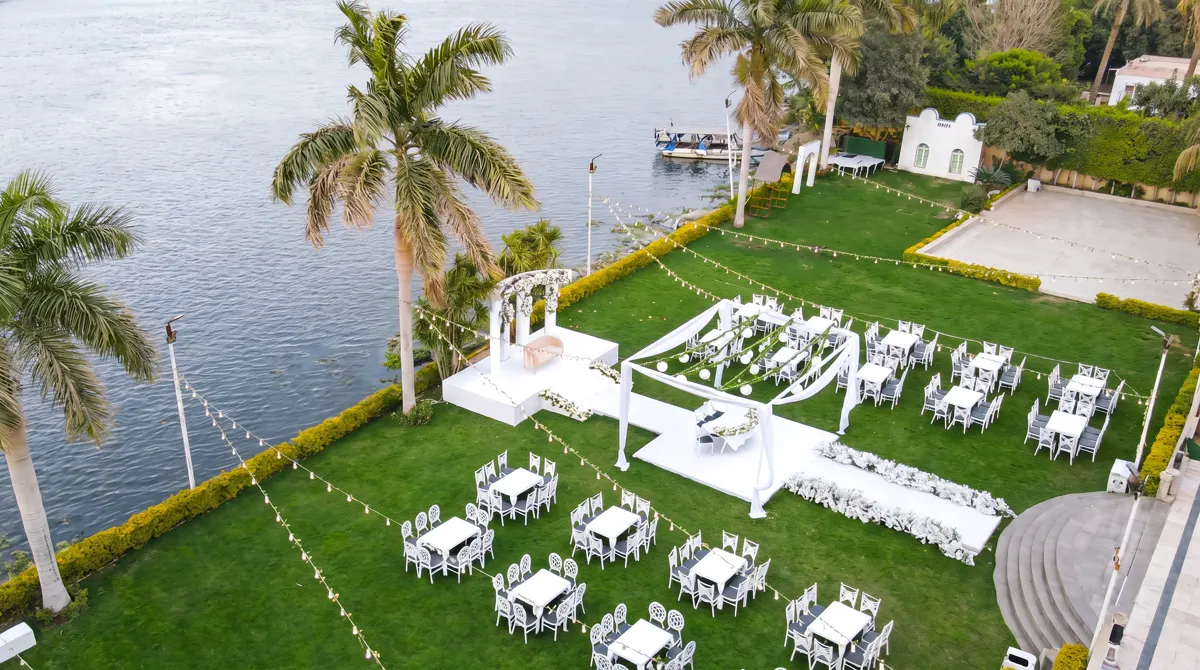
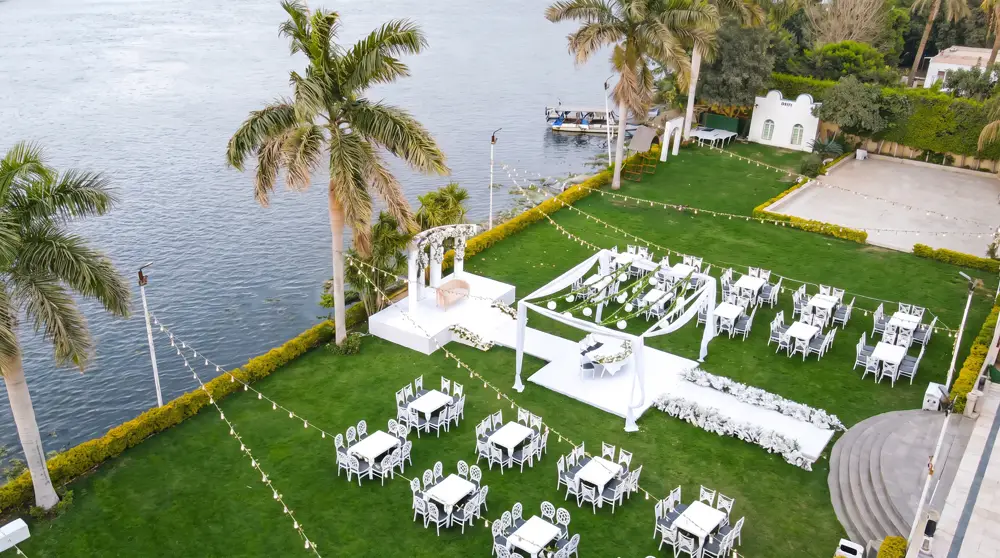
Mobile performance pass: small images, lighter effects, saner fades

diff --git a/index.html b/index.html
@@ -162,6 +162,8 @@ button{font:inherit;color:inherit}
 .outro .q,.outro .sig{position:relative}
 
 @media (max-width:860px){
+  body::after{display:none}
+  .p1 .ph,.plan,.map{box-shadow:0 20px 40px -24px rgba(47,61,44,.45)}
   .p1,.p3,.p5{grid-template-columns:1fr;align-content:center;gap:22px}
   .p1 .ph{height:34vh;border-radius:200px 200px 16px 16px;order:-1}
   .p1 h2{font-size:clamp(38px,10vw,56px)}
@@ -211,7 +213,7 @@ button{font:inherit;color:inherit}
           <h2 class="split">قلبان، ووعدٌ، وبيتٌ يُبنى على المودّة والرحمة.</h2>
           <p>في حديقة على النيل، بين النخل والورد الأبيض… بتبدأ حكاية أحمد ودينا.</p>
         </div>
-        <div class="ph"><img src="assets/venue.webp" alt="ممر الورد الأبيض والبرجولا في Villa Garden على النيل" class="par"></div>
+        <div class="ph"><img src="assets/venue.webp" srcset="assets/venue-sm.webp 800w, assets/venue.webp 1800w" sizes="(max-width:860px) 92vw, 45vw" decoding="async" alt="ممر الورد الأبيض والبرجولا في Villa Garden على النيل" class="par"></div>
         <div class="hint"><span>اسحب لتقلب الصفحات</span><span class="arr"></span></div>
         <svg class="vine" style="bottom:-10px;left:-20px;width:46vw;height:160px" viewBox="0 0 600 160" data-vine></svg>
       </article>
@@ -256,7 +258,7 @@ button{font:inherit;color:inherit}
           </div>
         </div>
         <div class="plan" id="plan">
-          <img src="assets/aerial.webp" alt="منظر جوي لحديقة Villa Garden: المنصة والممر والطاولات على النيل">
+          <img src="assets/aerial.webp" srcset="assets/aerial-sm.webp 1000w, assets/aerial.webp 2400w" sizes="(max-width:860px) 100vw, 1200px" decoding="async" alt="منظر جوي لحديقة Villa Garden: المنصة والممر والطاولات على النيل">
           <button class="spot" style="left:44%;top:52%" aria-label="المنصّة"><span class="card"><b>المنصّة</b><span>هنا يُكتب الكتاب</span></span></button>
           <button class="spot" style="left:74%;top:72%" aria-label="الممر"><span class="card"><b>الممر</b><span>طريق الفرحة</span></span></button>
           <button class="spot" style="left:44%;top:84%" aria-label="الطاولات"><span class="card"><b>الطاولات</b><span>مكانكم بينّا</span></span></button>
@@ -305,7 +307,8 @@ if('scrollRestoration' in history)history.scrollRestoration='manual';scrollTo(0,
 /* ── music: crossfade loop ── */
 const M=(()=>{let ctx,buf,out,on=true,fb;const XF=1.8;
   try{ctx=new (window.AudioContext||window.webkitAudioContext)();out=ctx.createGain();out.gain.value=0;out.connect(ctx.destination)}catch(e){}
-  const ready=ctx?fetch('assets/music.mp3').then(r=>r.arrayBuffer()).then(a=>new Promise((s,j)=>ctx.decodeAudioData(a,s,j))).then(b=>buf=b).catch(()=>null):Promise.resolve();
+  const loaded=new Promise(r=>document.readyState==='complete'?r():addEventListener('load',r,{once:true}));
+  const ready=ctx?loaded.then(()=>fetch('assets/music.mp3')).then(r=>r.arrayBuffer()).then(a=>new Promise((s,j)=>ctx.decodeAudioData(a,s,j))).then(b=>buf=b).catch(()=>null):Promise.resolve();
   function q(at){const s=ctx.createBufferSource(),g=ctx.createGain(),d=buf.duration;s.buffer=buf;s.connect(g).connect(out);
     g.gain.setValueAtTime(0,at);g.gain.linearRampToValueAtTime(1,at+XF);g.gain.setValueAtTime(1,at+d-XF);g.gain.linearRampToValueAtTime(0,at+d);s.start(at);s.stop(at+d+.1);
     const n=at+d-XF;setTimeout(()=>q(n),Math.max(0,(n-ctx.currentTime-1.2)*1000))}
@@ -381,9 +384,9 @@ const N=panels.length;
 const P=[null,
   gsap.timeline({paused:true})
     .from('.p2 .eyebrow,.p2 .inv',{opacity:0,y:20,stagger:.1,duration:1})
-    .from('#nA',{opacity:0,y:80,rotate:6,filter:'blur(14px)',duration:1.4,ease:'expo.out'},.1)
+    .from('#nA',{opacity:0,y:80,rotate:6,...(mobile?{}:{filter:'blur(14px)'}),duration:1.4,ease:'expo.out'},.1)
     .from('.p2 .amp',{scale:0,rotate:-90,duration:1.2,ease:'back.out(2)'},.4)
-    .from('#nD',{opacity:0,y:80,rotate:-6,filter:'blur(14px)',duration:1.4,ease:'expo.out'},.5)
+    .from('#nD',{opacity:0,y:80,rotate:-6,...(mobile?{}:{filter:'blur(14px)'}),duration:1.4,ease:'expo.out'},.5)
     .from('.p2 .line',{scaleY:0,transformOrigin:'top',duration:1},1),
   gsap.timeline({paused:true})
     .from('.p3 .eyebrow',{opacity:0,y:20,duration:.8})
@@ -407,10 +410,12 @@ legend.forEach((b,i)=>b.addEventListener('click',()=>{clearInterval(tour);tour=0
 function startTour(){if(tour)return;show(tourI);tour=setInterval(()=>{tourI=(tourI+1)%spots.length;show(tourI)},2600)}
 function stopTour(){clearInterval(tour);tour=null}
 const state=P.map(()=>false);
+const chapBars=$$('#chap i b');let lastP=-1;
 function onBook(p){
-  $$('#chap i b').forEach((b,i)=>gsap.set(b,{scaleX:Math.max(0,Math.min(1,p-i+1))}));
+  if(Math.abs(p-lastP)<.0005)return;lastP=p;
+  chapBars.forEach((b,i)=>gsap.set(b,{scaleX:Math.max(0,Math.min(1,p-i+1))}));
   gsap.set('.p1 .par',{xPercent:Math.min(1,p)*14});
-  for(let i=1;i<N;i++){const on=p>i-.55;if(on!==state[i]){state[i]=on;on?P[i].timeScale(1).play():P[i].timeScale(2).reverse()}}
+  for(let i=1;i<N;i++){if(!state[i]&&p>i-.7){state[i]=true;P[i].timeScale(mobile?1.4:1).play()}}
   vineTLs.forEach(([i,tl])=>tl.progress(Math.max(0,Math.min(1,(p-(i-1))*1.1))));
   (p>2.55&&p<3.6)?startTour():stopTour();
 }
@@ -437,7 +442,7 @@ document.addEventListener('click',()=>$('#calMenu').classList.remove('open'));
 /* ── outro: petal confetti burst ── */
 (()=>{const c=$('#confetti'),x=c.getContext('2d');let W,H,P=[],run=false,d=1;const cols=['#efd4cb','#e7c6bb','#a9b89a','#f6f2e8','#d9a99c'];
   function rs(){d=Math.min(devicePixelRatio,2);W=c.width=c.clientWidth*d;H=c.height=c.clientHeight*d}rs();addEventListener('resize',rs);
-  function burst(){for(let i=0;i<(mobile?60:120);i++)P.push({x:W/2,y:H*.6,vx:(Math.random()-.5)*14*d,vy:(-6-Math.random()*10)*d,r:Math.random()*6,vr:(Math.random()-.5)*.3,s:(4+Math.random()*6)*d,c:cols[Math.random()*5|0],f:Math.random()*6});if(!run){run=true;loop()}}
+  function burst(){for(let i=0;i<(mobile?45:120);i++)P.push({x:W/2,y:H*.6,vx:(Math.random()-.5)*14*d,vy:(-6-Math.random()*10)*d,r:Math.random()*6,vr:(Math.random()-.5)*.3,s:(4+Math.random()*6)*d,c:cols[Math.random()*5|0],f:Math.random()*6});if(!run){run=true;loop()}}
   function loop(){x.clearRect(0,0,W,H);P=P.filter(p=>p.y<H+40);for(const p of P){p.vy+=.18*d;p.vx*=.99;p.vy*=.99;p.x+=p.vx+Math.sin(p.f+=.05)*d;p.y+=p.vy;p.r+=p.vr;
     x.save();x.translate(p.x,p.y);x.rotate(p.r);x.scale(Math.cos(p.f),1);x.fillStyle=p.c;x.beginPath();x.ellipse(0,0,p.s*.6,p.s,0,0,7);x.fill();x.restore()}
     if(P.length)requestAnimationFrame(loop);else run=false}
